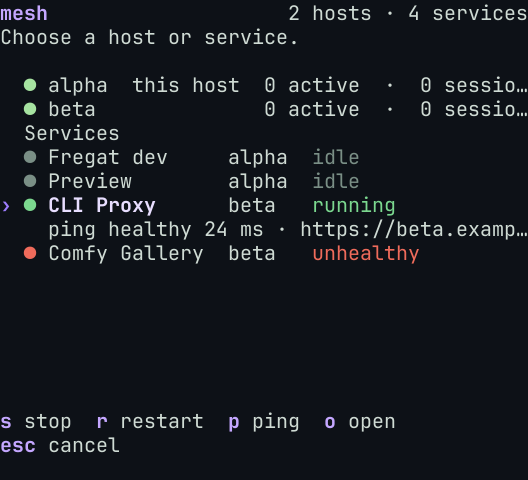
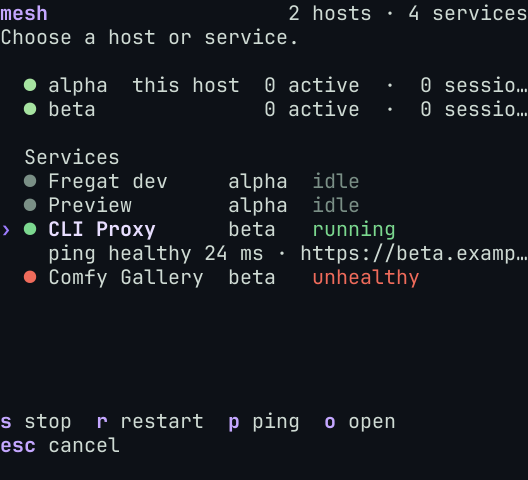
fix(tui): separate service group below machine rows

Changed region(s): [[0.0, 0.25, 1.0, 0.5938], [0.5758, 0.3125, 0.697, 0.3438], [0.4242, 0.3125, 0.5455, 0.3438]]

diff --git a/internal/tui/fleet_services.go b/internal/tui/fleet_services.go
@@ -115,9 +115,9 @@ func (m model) mainExtraRows() int {
 		return 0
 	}
 	if _, selected := m.list.SelectedItem().(serviceItem); selected {
-		return 2
+		return 3
 	}
-	return 1
+	return 2
 }
 
 func (m model) mainListView() string {
@@ -181,7 +181,7 @@ func (delegate hostDelegate) renderService(output io.Writer, browser list.Model,
 		_, previousService = browser.Items()[index-1].(serviceItem)
 	}
 	if index == start || !previousService {
-		_, _ = fmt.Fprintln(output, delegate.styles.muted.Render("  Services"))
+		_, _ = fmt.Fprintln(output, "\n"+delegate.styles.muted.Render("  Services"))
 	}
 	_, _ = fmt.Fprint(output, truncate(row, browser.Width()))
 	if !selected {

diff --git a/internal/tui/fleet_services_test.go b/internal/tui/fleet_services_test.go
@@ -284,6 +284,11 @@ func TestCompactFleetServiceDetailsFollowSelection(t *testing.T) {
 	lines := strings.Split(frame, "\n")
 	alpha, beta := -1, -1
 	for index, line := range lines {
+		if strings.TrimSpace(line) == "Services" && (index == 0 || strings.TrimSpace(lines[index-1]) != "") {
+			t.Fatalf("Services heading needs a blank line above:\n%s", frame)
+		}
+	}
+	for index, line := range lines {
 		if strings.Contains(line, "● Fregat dev") && strings.Contains(line, "alpha") {
 			alpha = index
 		}
